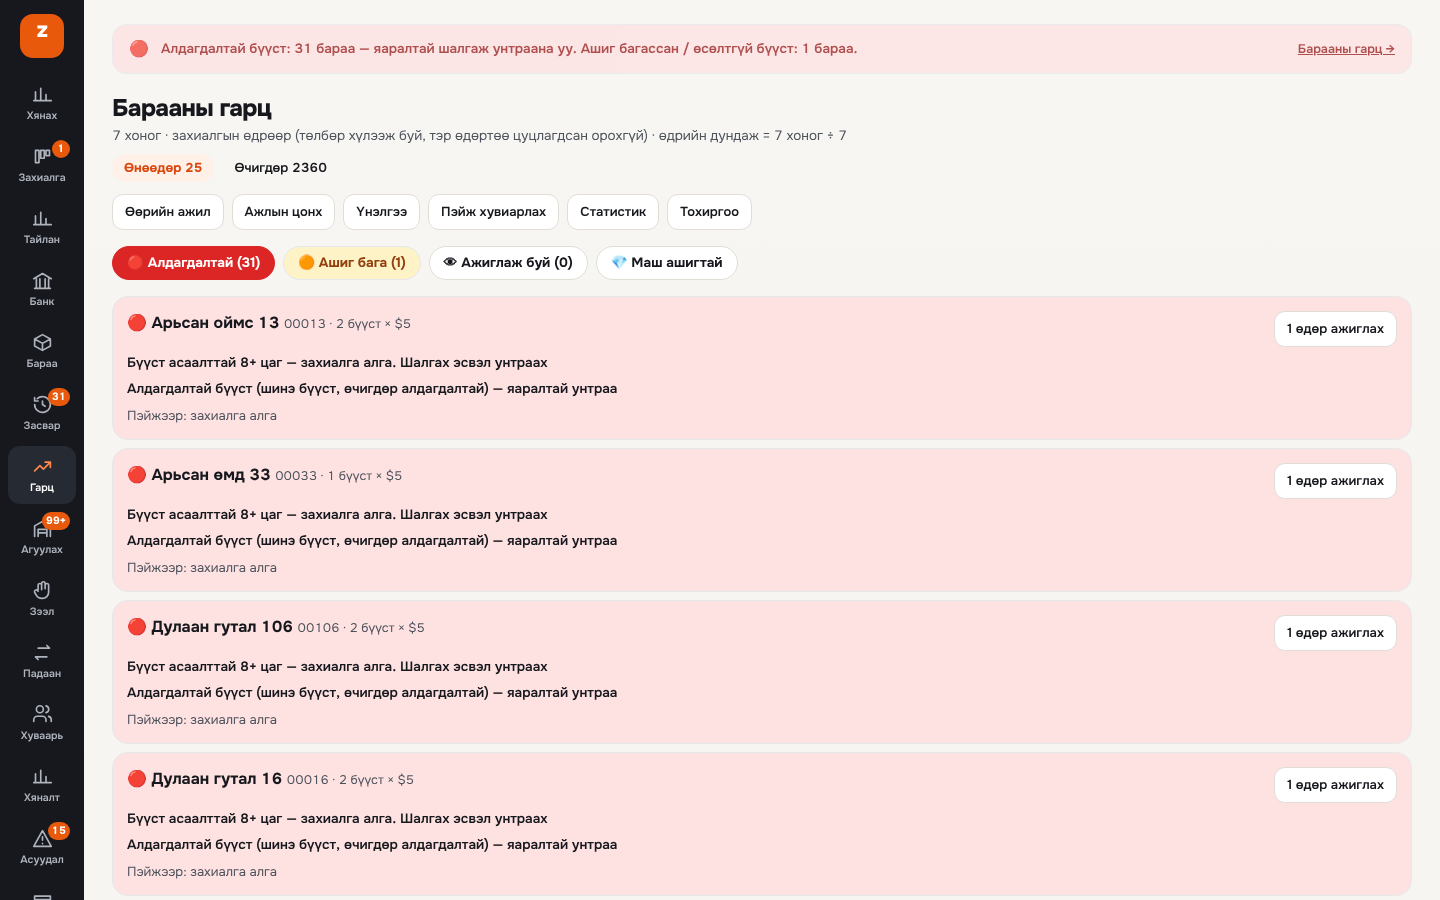
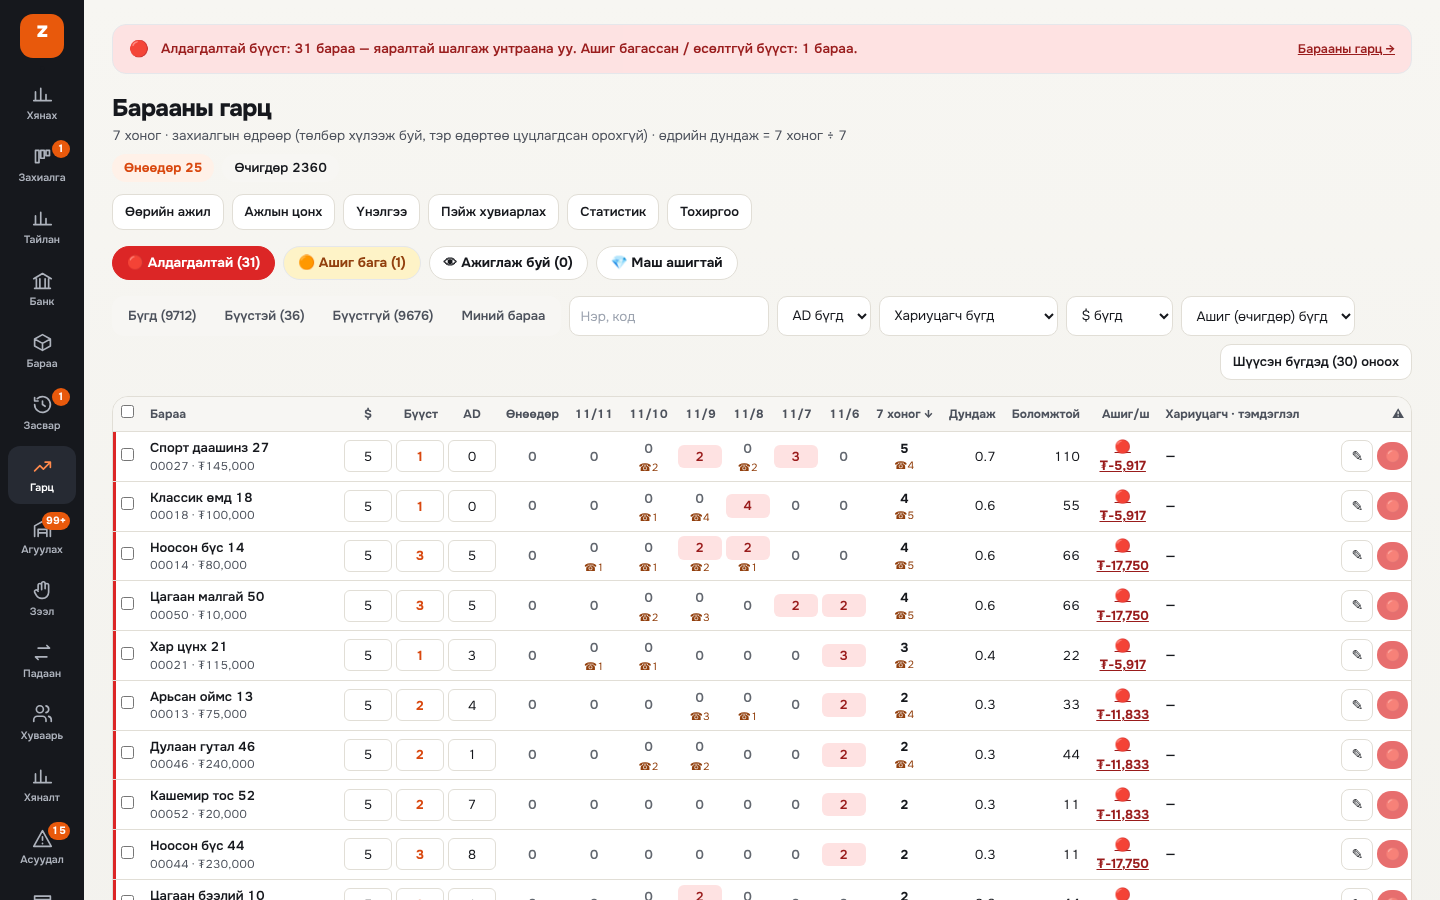
Барааны гарц: анхааруулгыг мөр бүрийн ард жижиг 🔴/🟠 тэмдэг болгов (дарахад дэлгэрэнгүй, «Бүүст унтраах», «1 өдөр ажиглах»)
Claude-Session: https://claude.ai/code/session_014hLXfijkzgjk3r2HE4dsyD

diff --git a/components/outflow/OutflowClient.tsx b/components/outflow/OutflowClient.tsx
@@ -29,12 +29,12 @@ interface Row {
   id: number; code: string; name: string; price: number; dollar: number; zones: number; adNumber: number | null; ownerId: string | null; ownerName: string | null;
   doneAt: string | null; doneByName: string | null; note: string; daily: number[]; weekTotal: number; avg: number; phones: number[]; phoneWeek: number;
   stock?: { total: number; available: number; driver: number }; alert?: 'RED' | 'ORANGE' | null; profit?: { status: Status | null; perUnit: number | null } | null;
+  alertInfo?: { level: 'RED' | 'ORANGE'; reasons: string[]; pages: { name: string; n: number }[]; watchedUntil: string | null; watchedBy: string | null } | null;
 }
 interface Table {
   rows: Row[]; total: number; page: number; pages: number; days: string[]; counts: { all: number; boost: number; noboost: number; red: number; orange: number; watched: number };
   totals: { today: number; yesterday: number }; dollars: number[]; owners: { id: string; name: string }[]; isLead: boolean; isSA: boolean;
 }
-interface Alert { productId: number; code: string; name: string; level: 'RED' | 'ORANGE'; reasons: string[]; pages: { name: string; n: number }[]; watchedUntil: string | null; watchedBy: string | null; zones: number; dollar: number; ownerName: string | null }
 
 /** Нүдний өнгө: бүүстэй — бүс × $ босго; бүүстгүй — дунджийн харьцаа (хуучин шиг) */
 function cellCls(v: number, r: Row) {
@@ -51,19 +51,17 @@ export function OutflowClient() {
   const [zone, setZone] = useState(''); const [owner, setOwner] = useState(''); const [dollar, setDollar] = useState(''); const [status, setStatus] = useState('');
   const [sort, setSort] = useState('week'); const [dir, setDir] = useState<'asc' | 'desc'>('desc'); const [page, setPage] = useState(1);
   const [d, setD] = useState<Table | null>(null);
-  const [alerts, setAlerts] = useState<{ red: Alert[]; orange: Alert[]; watched: Alert[] } | null>(null);
   const [err, setErr] = useState<string | null>(null); const [ok, setOk] = useState<string | null>(null);
   const [sel, setSel] = useState<Set<number>>(new Set());
-  const [dlg, setDlg] = useState<null | { k: 'edit'; row: Row } | { k: 'profit'; id: number } | { k: 'bulk'; ids: number[] } | { k: 'pages' | 'stats' | 'work' | 'my' | 'eval' | 'config' }>(null);
+  const [dlg, setDlg] = useState<null | { k: 'alert'; row: Row } | { k: 'edit'; row: Row } | { k: 'profit'; id: number } | { k: 'bulk'; ids: number[] } | { k: 'pages' | 'stats' | 'work' | 'my' | 'eval' | 'config' }>(null);
   const [hover, setHover] = useState<{ id: number; x: number; y: number } | null>(null);
   useEffect(() => { const t = setTimeout(() => setQd(q), 300); return () => clearTimeout(t); }, [q]);
   const params = useMemo(() => new URLSearchParams({ tab, q: qd, zone, owner, dollar, status, sort, dir, page: String(page) }).toString(), [tab, qd, zone, owner, dollar, status, sort, dir, page]);
   const load = useCallback(async () => {
     try {
-      const [t, a] = await Promise.all([api<Table>(`/api/goods-outflow?view=table&${params}`), ['red', 'orange', 'watched'].includes(tab) ? api<{ red: Alert[]; orange: Alert[]; watched: Alert[] }>('/api/goods-outflow?view=alerts') : Promise.resolve(null)]);
-      setD(t); setAlerts(a); setErr(null);
+      setD(await api<Table>(`/api/goods-outflow?view=table&${params}`)); setErr(null);
     } catch (e) { setErr(msg(e)); }
-  }, [params, tab]);
+  }, [params]);
   useEffect(() => { void load(); }, [load]);
   useEffect(() => { const t = setInterval(() => void load(), 120_000); return () => clearInterval(t); }, [load]);
   const post = async (json: Record<string, unknown>, m?: string) => {
@@ -74,7 +72,6 @@ export function OutflowClient() {
   const th = (k: string, l: string, extra = '') => (
     <th className={clsx('cursor-pointer select-none whitespace-nowrap px-2 py-2 text-right', extra)} onClick={() => sortBy(k)}>{l}{sort === k ? (dir === 'desc' ? ' ↓' : ' ↑') : ''}</th>
   );
-  const alertList = tab === 'red' ? alerts?.red : tab === 'orange' ? alerts?.orange : tab === 'watched' ? alerts?.watched : null;
 
   return (
     <div className="flex flex-col gap-4">
@@ -99,22 +96,6 @@ export function OutflowClient() {
           <button type="button" data-alert-tab="orange" onClick={() => go('orange')} className={clsx('rounded-full border px-3.5 py-1.5 text-[13.5px] font-bold', tab === 'orange' ? 'border-warn bg-warn text-white' : 'border-warn/40 bg-warn-soft text-warn')}>🟠 Ашиг бага ({d.counts.orange})</button>
           <button type="button" onClick={() => go('watched')} className={clsx('rounded-full border px-3.5 py-1.5 text-[13.5px] font-bold', tab === 'watched' ? 'border-ink bg-ink text-surface' : 'border-line bg-surface')}>👁 Ажиглаж буй ({d.counts.watched})</button>
           {d.isSA ? <button type="button" onClick={() => { go('diamond'); setStatus('DIAMOND'); }} className={clsx('rounded-full border px-3.5 py-1.5 text-[13.5px] font-bold', tab === 'diamond' ? 'border-info bg-info text-white' : 'border-line bg-surface')}>💎 Маш ашигтай</button> : null}
-        </div>
-      ) : null}
-      {alertList ? (
-        <div className="flex flex-col gap-2">
-          {alertList.length === 0 ? <p className="rounded-2xl border border-line bg-surface p-4 text-center text-[14px] text-muted">Энэ ангилалд бараа алга</p> : null}
-          {alertList.map((a) => (
-            <div key={a.productId} className={clsx('flex min-w-0 flex-col gap-1.5 rounded-2xl border p-3.5', a.level === 'RED' ? 'border-bad/40 bg-bad-soft' : 'border-warn/40 bg-warn-soft')}>
-              <div className="flex flex-wrap items-start justify-between gap-2">
-                <div className="min-w-0"><b className="[overflow-wrap:anywhere]">{a.level === 'RED' ? '🔴' : '🟠'} {a.name}</b> <span className="text-[12.5px] text-muted">{a.code} · {a.zones} бүүст × ${a.dollar}{a.ownerName ? ` · ${a.ownerName}` : ''}</span></div>
-                {tab !== 'watched' ? <Button size="sm" onClick={() => void post({ action: 'watch', productId: a.productId }, `«${a.name}» 1 өдөр ажиглана`)}>1 өдөр ажиглах</Button>
-                  : <span className="text-[12.5px] text-muted">👁 {a.watchedBy} · {ubDateTime(a.watchedUntil)} хүртэл</span>}
-              </div>
-              {a.reasons.map((r, i) => <p key={i} className="[overflow-wrap:anywhere] text-[13.5px] font-semibold">{r}</p>)}
-              {a.pages.length ? <p className="[overflow-wrap:anywhere] text-[13px] text-muted">Пэйжээр: {a.pages.map((x) => `${x.name} ${x.n}`).join(' · ')}</p> : <p className="text-[13px] text-muted">Пэйжээр: захиалга алга</p>}
-            </div>
-          ))}
         </div>
       ) : null}
       <div className="flex flex-wrap items-center gap-2">
@@ -147,14 +128,14 @@ export function OutflowClient() {
                 {th('week', '7 хоног', 'text-center')}{th('avg', 'Дундаж')}
                 <th className="px-2 py-2 text-right">Боломжтой</th>
                 {d.isSA ? th('profit', 'Ашиг/ш') : null}
-                <th className="px-2 py-2 text-left">Хариуцагч · тэмдэглэл</th><th className="px-2 py-2" />
+                <th className="px-2 py-2 text-left">Хариуцагч · тэмдэглэл</th><th className="px-2 py-2 text-right">⚠</th>
               </tr></thead>
               <tbody>
                 {d.rows.map((r) => (
-                  <tr key={r.id} className={clsx('border-t border-line', r.alert === 'RED' && 'bg-bad-soft', r.alert === 'ORANGE' && 'bg-warn-soft')}>
+                  <tr key={r.id} className={clsx('border-t border-line', r.alert === 'RED' && 'shadow-[inset_3px_0_0_var(--bad)]', r.alert === 'ORANGE' && 'shadow-[inset_3px_0_0_var(--warn-ink)]')}>
                     {d.isLead ? <td className="px-2"><input type="checkbox" aria-label={`${r.name} сонгох`} checked={sel.has(r.id)} onChange={(e) => { const n = new Set(sel); if (e.target.checked) n.add(r.id); else n.delete(r.id); setSel(n); }} /></td> : null}
                     <td className="w-[200px] min-w-[200px] max-w-[200px] px-2 py-1.5" onMouseEnter={(e) => setHover({ id: r.id, x: e.clientX, y: e.clientY })} onMouseLeave={() => setHover(null)}>
-                      <div className="[overflow-wrap:anywhere] font-semibold">{r.alert === 'RED' ? '🔴 ' : r.alert === 'ORANGE' ? '🟠 ' : ''}{r.name}</div>
+                      <div className="[overflow-wrap:anywhere] font-semibold">{r.name}</div>
                       <div className="[overflow-wrap:anywhere] text-[11.5px] text-muted">{r.code} · {money(r.price)}{r.doneAt ? ` · ✓ ${r.doneByName ?? ''}` : ''}</div>
                     </td>
                     <BoostCell row={r} field="dollar" post={post} />
@@ -168,7 +149,7 @@ export function OutflowClient() {
                     <td className={clsx('px-2 py-1 text-right', (r.stock?.available ?? 0) < r.avg && 'font-bold text-bad-ink')}>{r.stock?.available ?? 0}</td>
                     {d.isSA ? <td className="px-2 py-1 text-right">{r.profit?.status ? <button type="button" onClick={() => setDlg({ k: 'profit', id: r.id })} className={clsx('font-bold underline', STATUS[r.profit.status].cls)}>{STATUS[r.profit.status].icon} {money(r.profit.perUnit)}</button> : <button type="button" onClick={() => setDlg({ k: 'profit', id: r.id })} className="text-subtle underline">задаргаа</button>}</td> : null}
                     <td className="w-[180px] min-w-[180px] max-w-[180px] px-2 py-1"><div className="[overflow-wrap:anywhere] text-[12.5px] font-semibold">{r.ownerName ?? '—'}</div>{r.note ? <div title={r.note} className="line-clamp-2 [overflow-wrap:anywhere] text-[11.5px] text-muted">{r.note}</div> : null}</td>
-                    <td className="px-2 py-1"><Button size="sm" onClick={() => setDlg({ k: 'edit', row: r })}>Засах</Button></td>
+                    <td className="px-1 py-1"><div className="flex items-center justify-end gap-1"><button type="button" aria-label={`${r.name} засах`} title="Засах" onClick={() => setDlg({ k: 'edit', row: r })} className="h-8 w-8 rounded-lg border border-line bg-surface text-[14px] hover:bg-surface2">✎</button><AlertChip r={r} onOpen={() => setDlg({ k: 'alert', row: r })} /></div></td>
                   </tr>
                 ))}
               </tbody>
@@ -177,9 +158,9 @@ export function OutflowClient() {
           </div>
           <div className="flex flex-col gap-2 lg:hidden">
             {d.rows.map((r) => (
-              <div key={r.id} className={clsx('flex min-w-0 flex-col gap-2 rounded-2xl border border-line bg-surface p-3', r.alert === 'RED' && 'border-bad/40 bg-bad-soft', r.alert === 'ORANGE' && 'border-warn/40 bg-warn-soft')}>
+              <div key={r.id} className={clsx('flex min-w-0 flex-col gap-2 rounded-2xl border border-line bg-surface p-3', r.alert === 'RED' && 'border-l-4 border-l-bad', r.alert === 'ORANGE' && 'border-l-4 border-l-warn')}>
                 <div className="flex items-start justify-between gap-2">
-                  <div className="min-w-0"><b className="[overflow-wrap:anywhere]">{r.alert === 'RED' ? '🔴 ' : r.alert === 'ORANGE' ? '🟠 ' : ''}{r.name}</b><div className="[overflow-wrap:anywhere] text-[12px] text-muted">{r.code} · {r.ownerName ?? 'хариуцагчгүй'}{r.doneAt ? ' · ✓' : ''}</div></div>
+                  <div className="min-w-0"><b className="[overflow-wrap:anywhere]">{r.name}</b><div className="[overflow-wrap:anywhere] text-[12px] text-muted">{r.code} · {r.ownerName ?? 'хариуцагчгүй'}{r.doneAt ? ' · ✓' : ''}</div></div>
                   <div className="shrink-0 text-right"><b className="text-[18px]">{r.weekTotal}</b><div className="text-[11px] text-muted">7 хоног · ⌀{r.avg}</div></div>
                 </div>
                 <div className="grid grid-cols-7 gap-1 text-center text-[12px]">
@@ -189,7 +170,7 @@ export function OutflowClient() {
                   <span>${r.dollar} · бүүст {r.zones} · AD{r.adNumber ?? '—'}</span><span>Боломжтой {r.stock?.available ?? 0}</span>
                   {d.isSA ? (r.profit?.status ? <button type="button" onClick={() => setDlg({ k: 'profit', id: r.id })} className={clsx('font-bold underline', STATUS[r.profit.status].cls)}>{STATUS[r.profit.status].icon} {money(r.profit.perUnit)}</button>
                     : <button type="button" onClick={() => setDlg({ k: 'profit', id: r.id })} className="text-subtle underline">задаргаа</button>) : null}
-                  <Button size="sm" className="ml-auto" onClick={() => setDlg({ k: 'edit', row: r })}>Засах</Button>
+                  <span className="ml-auto flex items-center gap-2"><AlertChip r={r} onOpen={() => setDlg({ k: 'alert', row: r })} /><Button size="sm" onClick={() => setDlg({ k: 'edit', row: r })}>Засах</Button></span>
                 </div>
               </div>
             ))}
@@ -204,6 +185,7 @@ export function OutflowClient() {
         </>
       ) : <p className="text-muted">Ачаалж байна…</p>}
       {hover ? <HoverCard id={hover.id} x={hover.x} y={hover.y} /> : null}
+      {dlg?.k === 'alert' ? <AlertDialog row={dlg.row} onClose={() => setDlg(null)} post={post} /> : null}
       {dlg?.k === 'edit' ? <EditDialog row={dlg.row} lead={!!d?.isLead} owners={d?.owners ?? []} onClose={() => setDlg(null)} post={post} /> : null}
       {dlg?.k === 'bulk' ? <BulkDialog ids={dlg.ids} owners={d?.owners ?? []} onClose={() => setDlg(null)} onDone={async (m) => { setDlg(null); setSel(new Set()); setOk(m); await load(); }} /> : null}
       {dlg?.k === 'profit' ? <ProfitDialog id={dlg.id} onClose={() => setDlg(null)} /> : null}
@@ -214,6 +196,39 @@ export function OutflowClient() {
       {dlg?.k === 'eval' ? <EvalDialog onClose={() => setDlg(null)} /> : null}
       {dlg?.k === 'config' ? <ConfigDialog sa={!!d?.isSA} onClose={() => setDlg(null)} onDone={async () => { setDlg(null); setOk('Тохиргоо хадгалагдлаа'); await load(); }} /> : null}
     </div>
+  );
+}
+
+/** Мөрийн ард жижиг тэмдэг: 🔴 / 🟠 (ажиглаж буй бол 👁) — дарахад дэлгэрэнгүй */
+function AlertChip({ r, onOpen }: { r: Row; onOpen: () => void }) {
+  const a = r.alertInfo;
+  if (!a) return null;
+  const watched = !!a.watchedUntil;
+  return (
+    <button type="button" data-alert-chip onClick={onOpen} title={a.reasons.join(' / ')}
+      className={clsx('inline-flex h-7 items-center gap-1 rounded-full px-2 text-[12px] font-bold', watched ? 'bg-surface2 text-muted' : a.level === 'RED' ? 'animate-pulse bg-bad text-white' : 'bg-warn-soft text-warn')}>
+      {watched ? '👁' : a.level === 'RED' ? '🔴' : '🟠'}<span className="hidden 2xl:inline">{watched ? 'Ажиглаж' : a.level === 'RED' ? 'Алдагдал' : 'Анхаар'}</span>
+    </button>
+  );
+}
+
+function AlertDialog({ row, onClose, post }: { row: Row; onClose: () => void; post: (j: Record<string, unknown>, m?: string) => Promise<unknown> }) {
+  const a = row.alertInfo!;
+  const off = async () => { if (confirm(`«${row.name}»-ийн бүүстийг унтраах уу? (Бүүст = 0)`)) { await post({ action: 'boost', productId: row.id, zones: 0 }, `«${row.name}» бүүст унтарлаа`); onClose(); } };
+  const watch = async () => { await post({ action: 'watch', productId: row.id }, `«${row.name}» 1 өдөр ажиглана`); onClose(); };
+  return (
+    <Modal open onClose={onClose} title={`${a.level === 'RED' ? '🔴 Алдагдалтай бүүст' : '🟠 Анхааруулга'} · ${row.name}`} subtitle={`${row.code} · ${row.zones} бүүст × $${row.dollar}${row.ownerName ? ` · ${row.ownerName}` : ''}`}
+      footer={<><Button onClick={onClose}>Хаах</Button>{!a.watchedUntil ? <Button onClick={() => void watch()}>1 өдөр ажиглах</Button> : null}{row.zones > 0 ? <Button variant="primary" onClick={() => void off()}>Бүүст унтраах</Button> : null}</>}>
+      <div className="flex flex-col gap-2">
+        {a.reasons.map((x, i) => <p key={i} className={clsx('[overflow-wrap:anywhere] text-[14px] font-semibold', a.level === 'RED' ? 'text-bad-ink' : 'text-warn')}>{x}</p>)}
+        <div className="rounded-xl bg-surface2 p-3 text-[13px]">
+          <b>Пэйжээр</b>
+          {a.pages.length ? a.pages.map((p) => <div key={p.name} className="flex justify-between gap-2"><span className="min-w-0 [overflow-wrap:anywhere]">{p.name}</span><b className="shrink-0">{p.n}</b></div>) : <div className="text-muted">Захиалга алга</div>}
+        </div>
+        <p className="text-[13px] text-muted">Сүүлийн 7 хоног: {row.daily.join(' · ')} (өнөөдрөөс)</p>
+        {a.watchedUntil ? <p className="text-[13px] text-muted">👁 {a.watchedBy} ажиглаж байна — {ubDateTime(a.watchedUntil)} хүртэл</p> : null}
+      </div>
+    </Modal>
   );
 }
 

diff --git a/lib/services/outflow.ts b/lib/services/outflow.ts
@@ -291,6 +291,8 @@ export interface OutflowRow {
   daily: number[]; weekTotal: number; avg: number; phones: number[]; phoneWeek: number;
   stock?: { total: number; available: number; driver: number };
   alert?: AlertLevel | null; profit?: { status: ProfitStatus | null; perUnit: number | null } | null;
+  /** Мөрийн ард жижиг тэмдэг — дарахад дэлгэрэнгүй */
+  alertInfo?: { level: AlertLevel; reasons: string[]; pages: { name: string; n: number }[]; watchedUntil: Date | null; watchedBy: string | null } | null;
 }
 
 async function phoneCounts(from: string, to: string) {
@@ -385,6 +387,7 @@ export async function outflowTable(actor: UserActor, p: TableParams) {
   for (const r of slice) {
     const s = stock.get(r.id); r.stock = { total: s?.total ?? 0, available: s?.available ?? 0, driver: s?.driver ?? 0 };
     const a = alertMap.get(r.id); r.alert = a && !(a.watchedUntil && a.watchedUntil.getTime() > now) ? a.level : null;
+    r.alertInfo = a ? { level: a.level, reasons: a.reasons, pages: a.pages, watchedUntil: a.watchedUntil && a.watchedUntil.getTime() > now ? a.watchedUntil : null, watchedBy: a.watchedBy } : null;
     if (sa) { const pr = prof.get(r.id); r.profit = pr ? { status: pr.status, perUnit: pr.perUnit } : null; }
   }
   const all = await allRows();
